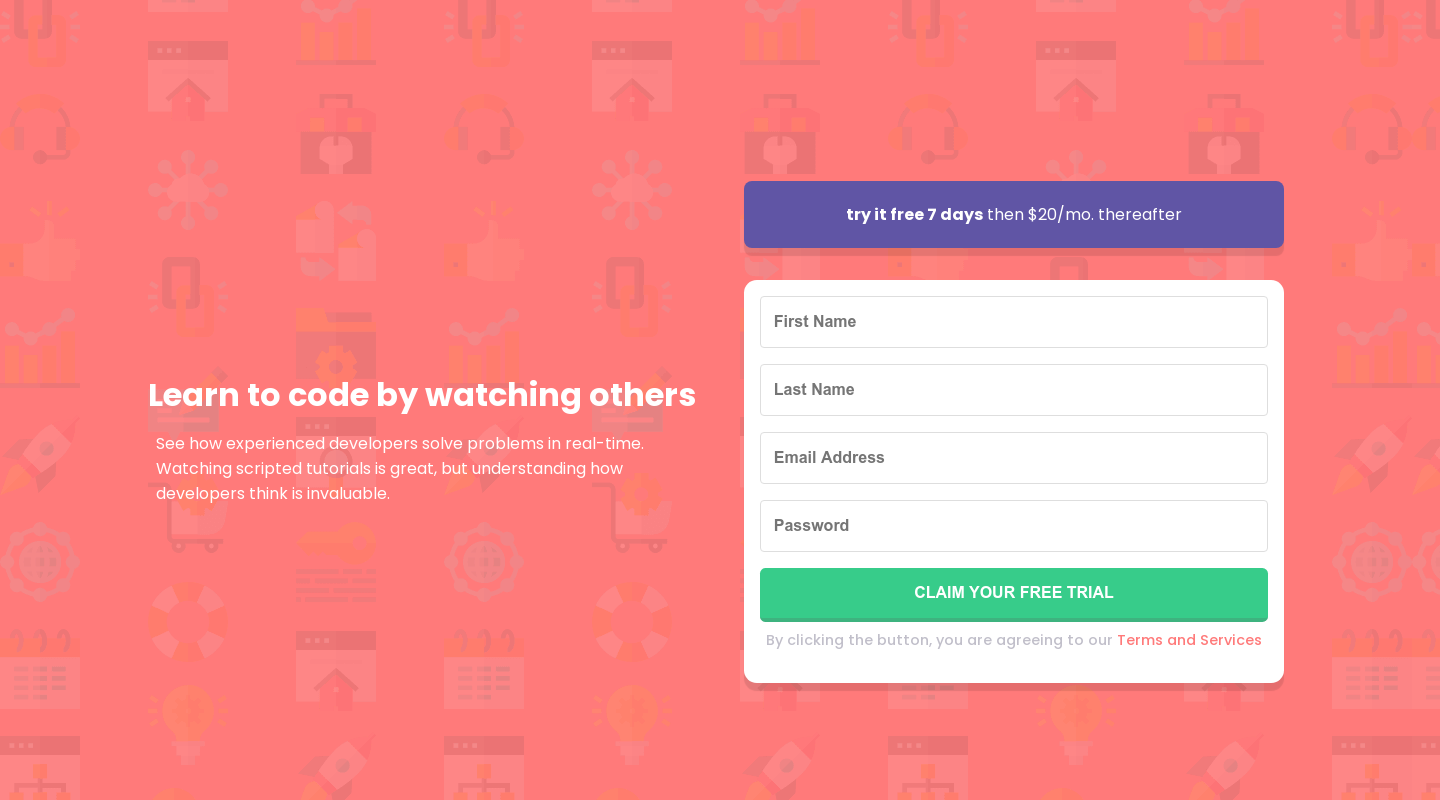
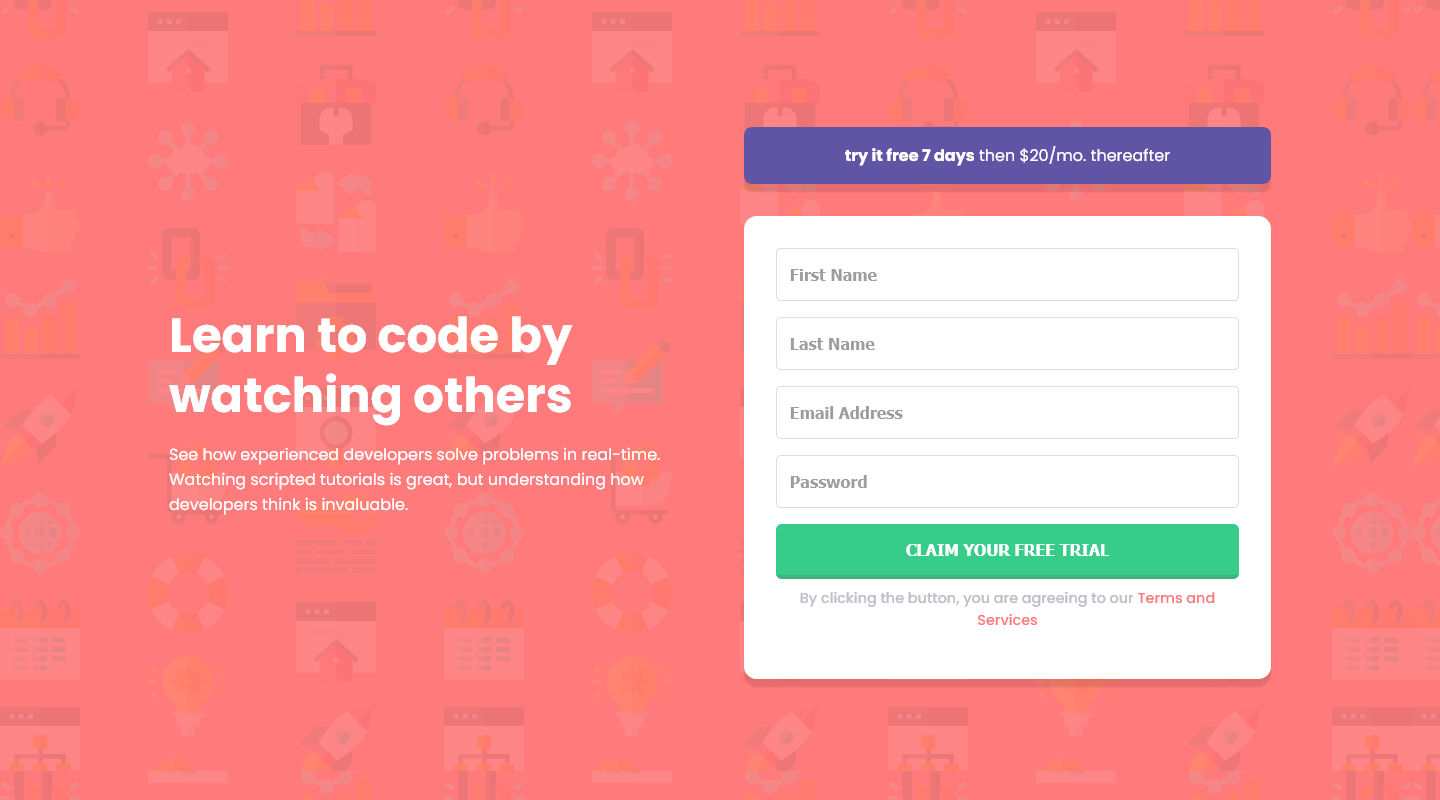
tornando mais fiel ao design

diff --git a/src/style.css b/src/style.css
@@ -20,9 +20,10 @@ a {
 
 .container {
 	margin: 0 auto;
-	padding: 0 1rem;
+	padding: 0 1.5em;
 	display: flex;
 	flex-direction: column;
+    max-width: 1150px;
 }
 
 .container-intro,
@@ -56,7 +57,7 @@ a {
 	background-color: hsl(248, 32%, 49%);
 	max-width: 540px;
 	width: 100%;
-	padding: 1.3em;
+	padding: 1em 3.5em;
 	text-align: center;
 	border-radius: .5em;
 	box-shadow: 0 8px 1px rgba(0, 0, 0, .1);
@@ -75,7 +76,7 @@ a {
 .formulario {
 	background-color: #fff;
 	border-radius: .8rem;
-	padding: 1rem;
+	padding: 2rem;
 	box-shadow: 0 8px 1px rgba(0, 0, 0, .1);
 	margin-top: 2rem;
 	max-width: 540px;
@@ -85,7 +86,7 @@ a {
 	width: 100%;
 	border :1px solid #dedede;
 	color: #48474d;
-	border-radius: .25rem;
+	border-radius: .3rem;
 	font-weight: 600;
 	font-size: 1rem;
 	padding: 1rem .8rem;
@@ -132,6 +133,10 @@ a {
 	body {
 		background-image: url("../images/bg-intro-desktop.png");
 	}
+
+    .container-intro .titulo {
+        font-size: 3em;
+    }
 }
 
 @media screen and (min-width: 980px) {
@@ -141,7 +146,7 @@ a {
 		align-items: center;
 		height: 100vh;
 		gap: 3em;
-		margin: 0 2em;
+		margin: 0 auto;
 	}
 
 	.container-intro {
